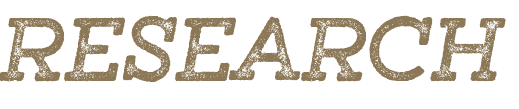
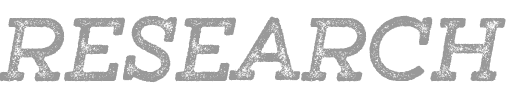
add shadows to increase beauty

Changed region(s): [[0.0, 0.1376, 0.9865, 0.7706]]

diff --git a/dist/bundle.js b/dist/bundle.js
@@ -443,7 +443,7 @@ eval("__webpack_require__.r(__webpack_exports__);\n/* harmony export */ __webpac
 /***/ ((__unused_webpack_module, __webpack_exports__, __webpack_require__) => {
 
 "use strict";
-eval("__webpack_require__.r(__webpack_exports__);\n/* harmony export */ __webpack_require__.d(__webpack_exports__, {\n/* harmony export */   \"default\": () => (__WEBPACK_DEFAULT_EXPORT__)\n/* harmony export */ });\n/* harmony import */ var react_jsx_runtime__WEBPACK_IMPORTED_MODULE_0__ = __webpack_require__(/*! react/jsx-runtime */ \"./node_modules/react/jsx-runtime.js\");\n/* harmony import */ var react__WEBPACK_IMPORTED_MODULE_1__ = __webpack_require__(/*! react */ \"./node_modules/react/index.js\");\n/* harmony import */ var react__WEBPACK_IMPORTED_MODULE_1___default = /*#__PURE__*/__webpack_require__.n(react__WEBPACK_IMPORTED_MODULE_1__);\n/* harmony import */ var _sectionHeader_css__WEBPACK_IMPORTED_MODULE_2__ = __webpack_require__(/*! ./sectionHeader.css */ \"./src/components/common/sectionHeader.css\");\nvar __extends = (undefined && undefined.__extends) || (function () {\n    var extendStatics = function (d, b) {\n        extendStatics = Object.setPrototypeOf ||\n            ({ __proto__: [] } instanceof Array && function (d, b) { d.__proto__ = b; }) ||\n            function (d, b) { for (var p in b) if (Object.prototype.hasOwnProperty.call(b, p)) d[p] = b[p]; };\n        return extendStatics(d, b);\n    };\n    return function (d, b) {\n        if (typeof b !== \"function\" && b !== null)\n            throw new TypeError(\"Class extends value \" + String(b) + \" is not a constructor or null\");\n        extendStatics(d, b);\n        function __() { this.constructor = d; }\n        d.prototype = b === null ? Object.create(b) : (__.prototype = b.prototype, new __());\n    };\n})();\n\n\n\n;\nvar SectionHeader = /** @class */ (function (_super) {\n    __extends(SectionHeader, _super);\n    function SectionHeader() {\n        return _super !== null && _super.apply(this, arguments) || this;\n    }\n    SectionHeader.prototype.render = function () {\n        return ((0,react_jsx_runtime__WEBPACK_IMPORTED_MODULE_0__.jsx)(\"div\", { className: \"container flex-row align-items-center mb-5\", children: (0,react_jsx_runtime__WEBPACK_IMPORTED_MODULE_0__.jsx)(\"center\", { children: (0,react_jsx_runtime__WEBPACK_IMPORTED_MODULE_0__.jsx)(\"img\", { src: this.props.imageUrl }) }) }));\n    };\n    return SectionHeader;\n}((react__WEBPACK_IMPORTED_MODULE_1___default().Component)));\n/* harmony default export */ const __WEBPACK_DEFAULT_EXPORT__ = (SectionHeader);\n\n\n//# sourceURL=webpack://chenfeilou-website/./src/components/common/sectionHeader.tsx?");
+eval("__webpack_require__.r(__webpack_exports__);\n/* harmony export */ __webpack_require__.d(__webpack_exports__, {\n/* harmony export */   \"default\": () => (__WEBPACK_DEFAULT_EXPORT__)\n/* harmony export */ });\n/* harmony import */ var react_jsx_runtime__WEBPACK_IMPORTED_MODULE_0__ = __webpack_require__(/*! react/jsx-runtime */ \"./node_modules/react/jsx-runtime.js\");\n/* harmony import */ var react__WEBPACK_IMPORTED_MODULE_1__ = __webpack_require__(/*! react */ \"./node_modules/react/index.js\");\n/* harmony import */ var react__WEBPACK_IMPORTED_MODULE_1___default = /*#__PURE__*/__webpack_require__.n(react__WEBPACK_IMPORTED_MODULE_1__);\n/* harmony import */ var _sectionHeader_css__WEBPACK_IMPORTED_MODULE_2__ = __webpack_require__(/*! ./sectionHeader.css */ \"./src/components/common/sectionHeader.css\");\nvar __extends = (undefined && undefined.__extends) || (function () {\n    var extendStatics = function (d, b) {\n        extendStatics = Object.setPrototypeOf ||\n            ({ __proto__: [] } instanceof Array && function (d, b) { d.__proto__ = b; }) ||\n            function (d, b) { for (var p in b) if (Object.prototype.hasOwnProperty.call(b, p)) d[p] = b[p]; };\n        return extendStatics(d, b);\n    };\n    return function (d, b) {\n        if (typeof b !== \"function\" && b !== null)\n            throw new TypeError(\"Class extends value \" + String(b) + \" is not a constructor or null\");\n        extendStatics(d, b);\n        function __() { this.constructor = d; }\n        d.prototype = b === null ? Object.create(b) : (__.prototype = b.prototype, new __());\n    };\n})();\n\n\n\n;\nvar SectionHeader = /** @class */ (function (_super) {\n    __extends(SectionHeader, _super);\n    function SectionHeader() {\n        return _super !== null && _super.apply(this, arguments) || this;\n    }\n    SectionHeader.prototype.render = function () {\n        return ((0,react_jsx_runtime__WEBPACK_IMPORTED_MODULE_0__.jsx)(\"div\", { className: \"container flex-row align-items-center mb-5 shadow\", children: (0,react_jsx_runtime__WEBPACK_IMPORTED_MODULE_0__.jsx)(\"center\", { children: (0,react_jsx_runtime__WEBPACK_IMPORTED_MODULE_0__.jsx)(\"img\", { src: this.props.imageUrl }) }) }));\n    };\n    return SectionHeader;\n}((react__WEBPACK_IMPORTED_MODULE_1___default().Component)));\n/* harmony default export */ const __WEBPACK_DEFAULT_EXPORT__ = (SectionHeader);\n\n\n//# sourceURL=webpack://chenfeilou-website/./src/components/common/sectionHeader.tsx?");
 
 /***/ }),
 
@@ -487,7 +487,7 @@ eval("__webpack_require__.r(__webpack_exports__);\n/* harmony export */ __webpac
 /***/ ((__unused_webpack_module, __webpack_exports__, __webpack_require__) => {
 
 "use strict";
-eval("__webpack_require__.r(__webpack_exports__);\n/* harmony export */ __webpack_require__.d(__webpack_exports__, {\n/* harmony export */   \"default\": () => (__WEBPACK_DEFAULT_EXPORT__)\n/* harmony export */ });\n/* harmony import */ var react_jsx_runtime__WEBPACK_IMPORTED_MODULE_0__ = __webpack_require__(/*! react/jsx-runtime */ \"./node_modules/react/jsx-runtime.js\");\n/* harmony import */ var react__WEBPACK_IMPORTED_MODULE_1__ = __webpack_require__(/*! react */ \"./node_modules/react/index.js\");\n/* harmony import */ var react__WEBPACK_IMPORTED_MODULE_1___default = /*#__PURE__*/__webpack_require__.n(react__WEBPACK_IMPORTED_MODULE_1__);\n/* harmony import */ var _common_sectionHeader__WEBPACK_IMPORTED_MODULE_2__ = __webpack_require__(/*! ../common/sectionHeader */ \"./src/components/common/sectionHeader.tsx\");\nvar __extends = (undefined && undefined.__extends) || (function () {\n    var extendStatics = function (d, b) {\n        extendStatics = Object.setPrototypeOf ||\n            ({ __proto__: [] } instanceof Array && function (d, b) { d.__proto__ = b; }) ||\n            function (d, b) { for (var p in b) if (Object.prototype.hasOwnProperty.call(b, p)) d[p] = b[p]; };\n        return extendStatics(d, b);\n    };\n    return function (d, b) {\n        if (typeof b !== \"function\" && b !== null)\n            throw new TypeError(\"Class extends value \" + String(b) + \" is not a constructor or null\");\n        extendStatics(d, b);\n        function __() { this.constructor = d; }\n        d.prototype = b === null ? Object.create(b) : (__.prototype = b.prototype, new __());\n    };\n})();\n\n\n\n;\nvar Experiences = /** @class */ (function (_super) {\n    __extends(Experiences, _super);\n    function Experiences() {\n        return _super !== null && _super.apply(this, arguments) || this;\n    }\n    Experiences.prototype.render = function () {\n        return ((0,react_jsx_runtime__WEBPACK_IMPORTED_MODULE_0__.jsxs)(\"div\", { id: \"Experiences\", style: { paddingTop: 60, paddingBottom: 60 }, children: [(0,react_jsx_runtime__WEBPACK_IMPORTED_MODULE_0__.jsx)(_common_sectionHeader__WEBPACK_IMPORTED_MODULE_2__[\"default\"], { imageUrl: \"images/experiences-header.png\" }), (0,react_jsx_runtime__WEBPACK_IMPORTED_MODULE_0__.jsx)(\"div\", { className: \"pt-4\", children: \"// TODO\" })] }));\n    };\n    return Experiences;\n}((react__WEBPACK_IMPORTED_MODULE_1___default().Component)));\n/* harmony default export */ const __WEBPACK_DEFAULT_EXPORT__ = (Experiences);\n\n\n//# sourceURL=webpack://chenfeilou-website/./src/components/experiences/experiences.tsx?");
+eval("__webpack_require__.r(__webpack_exports__);\n/* harmony export */ __webpack_require__.d(__webpack_exports__, {\n/* harmony export */   \"default\": () => (__WEBPACK_DEFAULT_EXPORT__)\n/* harmony export */ });\n/* harmony import */ var react_jsx_runtime__WEBPACK_IMPORTED_MODULE_0__ = __webpack_require__(/*! react/jsx-runtime */ \"./node_modules/react/jsx-runtime.js\");\n/* harmony import */ var react__WEBPACK_IMPORTED_MODULE_1__ = __webpack_require__(/*! react */ \"./node_modules/react/index.js\");\n/* harmony import */ var react__WEBPACK_IMPORTED_MODULE_1___default = /*#__PURE__*/__webpack_require__.n(react__WEBPACK_IMPORTED_MODULE_1__);\n/* harmony import */ var _common_sectionHeader__WEBPACK_IMPORTED_MODULE_2__ = __webpack_require__(/*! ../common/sectionHeader */ \"./src/components/common/sectionHeader.tsx\");\nvar __extends = (undefined && undefined.__extends) || (function () {\n    var extendStatics = function (d, b) {\n        extendStatics = Object.setPrototypeOf ||\n            ({ __proto__: [] } instanceof Array && function (d, b) { d.__proto__ = b; }) ||\n            function (d, b) { for (var p in b) if (Object.prototype.hasOwnProperty.call(b, p)) d[p] = b[p]; };\n        return extendStatics(d, b);\n    };\n    return function (d, b) {\n        if (typeof b !== \"function\" && b !== null)\n            throw new TypeError(\"Class extends value \" + String(b) + \" is not a constructor or null\");\n        extendStatics(d, b);\n        function __() { this.constructor = d; }\n        d.prototype = b === null ? Object.create(b) : (__.prototype = b.prototype, new __());\n    };\n})();\n\n\n\n;\nvar Experiences = /** @class */ (function (_super) {\n    __extends(Experiences, _super);\n    function Experiences() {\n        return _super !== null && _super.apply(this, arguments) || this;\n    }\n    Experiences.prototype.render = function () {\n        return ((0,react_jsx_runtime__WEBPACK_IMPORTED_MODULE_0__.jsxs)(\"div\", { id: \"Experiences\", style: { paddingTop: 60, paddingBottom: 60 }, children: [(0,react_jsx_runtime__WEBPACK_IMPORTED_MODULE_0__.jsx)(_common_sectionHeader__WEBPACK_IMPORTED_MODULE_2__[\"default\"], { imageUrl: \"images/experiences-header.png\" }), (0,react_jsx_runtime__WEBPACK_IMPORTED_MODULE_0__.jsx)(\"div\", { className: \"pt-4\" })] }));\n    };\n    return Experiences;\n}((react__WEBPACK_IMPORTED_MODULE_1___default().Component)));\n/* harmony default export */ const __WEBPACK_DEFAULT_EXPORT__ = (Experiences);\n\n\n//# sourceURL=webpack://chenfeilou-website/./src/components/experiences/experiences.tsx?");
 
 /***/ }),
 
@@ -520,7 +520,7 @@ eval("__webpack_require__.r(__webpack_exports__);\n/* harmony export */ __webpac
 /***/ ((__unused_webpack_module, __webpack_exports__, __webpack_require__) => {
 
 "use strict";
-eval("__webpack_require__.r(__webpack_exports__);\n/* harmony export */ __webpack_require__.d(__webpack_exports__, {\n/* harmony export */   \"default\": () => (__WEBPACK_DEFAULT_EXPORT__)\n/* harmony export */ });\n/* harmony import */ var react_jsx_runtime__WEBPACK_IMPORTED_MODULE_0__ = __webpack_require__(/*! react/jsx-runtime */ \"./node_modules/react/jsx-runtime.js\");\n/* harmony import */ var react__WEBPACK_IMPORTED_MODULE_1__ = __webpack_require__(/*! react */ \"./node_modules/react/index.js\");\n/* harmony import */ var react__WEBPACK_IMPORTED_MODULE_1___default = /*#__PURE__*/__webpack_require__.n(react__WEBPACK_IMPORTED_MODULE_1__);\n/* harmony import */ var react_bootstrap_icons__WEBPACK_IMPORTED_MODULE_2__ = __webpack_require__(/*! react-bootstrap-icons */ \"./node_modules/react-bootstrap-icons/dist/icons/emoji-laughing.js\");\nvar __extends = (undefined && undefined.__extends) || (function () {\n    var extendStatics = function (d, b) {\n        extendStatics = Object.setPrototypeOf ||\n            ({ __proto__: [] } instanceof Array && function (d, b) { d.__proto__ = b; }) ||\n            function (d, b) { for (var p in b) if (Object.prototype.hasOwnProperty.call(b, p)) d[p] = b[p]; };\n        return extendStatics(d, b);\n    };\n    return function (d, b) {\n        if (typeof b !== \"function\" && b !== null)\n            throw new TypeError(\"Class extends value \" + String(b) + \" is not a constructor or null\");\n        extendStatics(d, b);\n        function __() { this.constructor = d; }\n        d.prototype = b === null ? Object.create(b) : (__.prototype = b.prototype, new __());\n    };\n})();\n\n\n\n;\n;\nvar ProfileItem = /** @class */ (function (_super) {\n    __extends(ProfileItem, _super);\n    function ProfileItem() {\n        return _super !== null && _super.apply(this, arguments) || this;\n    }\n    ProfileItem.prototype.render = function () {\n        return ((0,react_jsx_runtime__WEBPACK_IMPORTED_MODULE_0__.jsxs)(\"div\", { className: 'my-3', children: [(0,react_jsx_runtime__WEBPACK_IMPORTED_MODULE_0__.jsx)(\"strong\", { children: this.props.keyName + \": \" }), (0,react_jsx_runtime__WEBPACK_IMPORTED_MODULE_0__.jsx)(\"span\", { children: this.props.value })] }));\n    };\n    return ProfileItem;\n}((react__WEBPACK_IMPORTED_MODULE_1___default().Component)));\nvar Profile = /** @class */ (function (_super) {\n    __extends(Profile, _super);\n    function Profile() {\n        return _super !== null && _super.apply(this, arguments) || this;\n    }\n    Profile.prototype.render = function () {\n        return ((0,react_jsx_runtime__WEBPACK_IMPORTED_MODULE_0__.jsx)(\"div\", { className: \"container-xxl col-10 mb-5\", style: { backgroundColor: \"#D2D3D5\" }, children: (0,react_jsx_runtime__WEBPACK_IMPORTED_MODULE_0__.jsxs)(\"div\", { className: \"d-flex flex-column flex-xl-row gap-5 align-items-center link-body-emphasis text-decoration-none p-5\", children: [(0,react_jsx_runtime__WEBPACK_IMPORTED_MODULE_0__.jsx)(\"div\", { className: 'col-10 col-md-6 col-xl-4', children: (0,react_jsx_runtime__WEBPACK_IMPORTED_MODULE_0__.jsx)(\"img\", { src: \"images/profile-picture.jpg\", width: '100%' }) }), (0,react_jsx_runtime__WEBPACK_IMPORTED_MODULE_0__.jsxs)(\"div\", { className: \"col-xl-8 px-5\", children: [(0,react_jsx_runtime__WEBPACK_IMPORTED_MODULE_0__.jsxs)(\"div\", { className: 'd-flex flex-row gap-3', children: [(0,react_jsx_runtime__WEBPACK_IMPORTED_MODULE_0__.jsx)(\"h2\", { className: \"mb-0\", children: \"Hi! Welcome to my website! \" }), (0,react_jsx_runtime__WEBPACK_IMPORTED_MODULE_0__.jsx)(react_bootstrap_icons__WEBPACK_IMPORTED_MODULE_2__[\"default\"], { size: 30 })] }), (0,react_jsx_runtime__WEBPACK_IMPORTED_MODULE_0__.jsx)(\"hr\", {}), (0,react_jsx_runtime__WEBPACK_IMPORTED_MODULE_0__.jsx)(ProfileItem, { keyName: 'Name', value: 'Chenfei Lou' }), (0,react_jsx_runtime__WEBPACK_IMPORTED_MODULE_0__.jsx)(ProfileItem, { keyName: 'D.O.B', value: '05/16/2000' }), (0,react_jsx_runtime__WEBPACK_IMPORTED_MODULE_0__.jsx)(ProfileItem, { keyName: 'Phone', value: '+1 (608) 698-6592' }), (0,react_jsx_runtime__WEBPACK_IMPORTED_MODULE_0__.jsx)(ProfileItem, { keyName: 'Address', value: '4742 Centre Ave, Pittsburgh, PA, 15213' }), (0,react_jsx_runtime__WEBPACK_IMPORTED_MODULE_0__.jsx)(ProfileItem, { keyName: 'E-mail', value: 'chenfeil@andrew.cmu.edu' }), (0,react_jsx_runtime__WEBPACK_IMPORTED_MODULE_0__.jsx)(ProfileItem, { keyName: 'Github', value: 'Alexanderia-Mike.github.com' }), (0,react_jsx_runtime__WEBPACK_IMPORTED_MODULE_0__.jsx)(ProfileItem, { keyName: 'LinkedIn', value: 'linkedin.com/in/mike-lou/' })] })] }) }));\n    };\n    return Profile;\n}((react__WEBPACK_IMPORTED_MODULE_1___default().Component)));\n/* harmony default export */ const __WEBPACK_DEFAULT_EXPORT__ = (Profile);\n\n\n//# sourceURL=webpack://chenfeilou-website/./src/components/profile/profile.tsx?");
+eval("__webpack_require__.r(__webpack_exports__);\n/* harmony export */ __webpack_require__.d(__webpack_exports__, {\n/* harmony export */   \"default\": () => (__WEBPACK_DEFAULT_EXPORT__)\n/* harmony export */ });\n/* harmony import */ var react_jsx_runtime__WEBPACK_IMPORTED_MODULE_0__ = __webpack_require__(/*! react/jsx-runtime */ \"./node_modules/react/jsx-runtime.js\");\n/* harmony import */ var react__WEBPACK_IMPORTED_MODULE_1__ = __webpack_require__(/*! react */ \"./node_modules/react/index.js\");\n/* harmony import */ var react__WEBPACK_IMPORTED_MODULE_1___default = /*#__PURE__*/__webpack_require__.n(react__WEBPACK_IMPORTED_MODULE_1__);\n/* harmony import */ var react_bootstrap_icons__WEBPACK_IMPORTED_MODULE_2__ = __webpack_require__(/*! react-bootstrap-icons */ \"./node_modules/react-bootstrap-icons/dist/icons/emoji-laughing.js\");\nvar __extends = (undefined && undefined.__extends) || (function () {\n    var extendStatics = function (d, b) {\n        extendStatics = Object.setPrototypeOf ||\n            ({ __proto__: [] } instanceof Array && function (d, b) { d.__proto__ = b; }) ||\n            function (d, b) { for (var p in b) if (Object.prototype.hasOwnProperty.call(b, p)) d[p] = b[p]; };\n        return extendStatics(d, b);\n    };\n    return function (d, b) {\n        if (typeof b !== \"function\" && b !== null)\n            throw new TypeError(\"Class extends value \" + String(b) + \" is not a constructor or null\");\n        extendStatics(d, b);\n        function __() { this.constructor = d; }\n        d.prototype = b === null ? Object.create(b) : (__.prototype = b.prototype, new __());\n    };\n})();\n\n\n\n;\n;\nvar ProfileItem = /** @class */ (function (_super) {\n    __extends(ProfileItem, _super);\n    function ProfileItem() {\n        return _super !== null && _super.apply(this, arguments) || this;\n    }\n    ProfileItem.prototype.render = function () {\n        return ((0,react_jsx_runtime__WEBPACK_IMPORTED_MODULE_0__.jsxs)(\"div\", { className: 'my-3', children: [(0,react_jsx_runtime__WEBPACK_IMPORTED_MODULE_0__.jsx)(\"strong\", { children: this.props.keyName + \": \" }), (0,react_jsx_runtime__WEBPACK_IMPORTED_MODULE_0__.jsx)(\"span\", { children: this.props.value })] }));\n    };\n    return ProfileItem;\n}((react__WEBPACK_IMPORTED_MODULE_1___default().Component)));\nvar Profile = /** @class */ (function (_super) {\n    __extends(Profile, _super);\n    function Profile() {\n        return _super !== null && _super.apply(this, arguments) || this;\n    }\n    Profile.prototype.render = function () {\n        return ((0,react_jsx_runtime__WEBPACK_IMPORTED_MODULE_0__.jsx)(\"div\", { className: \"container-xxl col-10 mb-5 shadow-lg\", style: { backgroundColor: \"#D2D3D500\" }, children: (0,react_jsx_runtime__WEBPACK_IMPORTED_MODULE_0__.jsxs)(\"div\", { className: \"d-flex flex-column flex-xl-row gap-5 align-items-center link-body-emphasis text-decoration-none p-5\", children: [(0,react_jsx_runtime__WEBPACK_IMPORTED_MODULE_0__.jsx)(\"div\", { className: 'col-10 col-md-6 col-xl-4', children: (0,react_jsx_runtime__WEBPACK_IMPORTED_MODULE_0__.jsx)(\"img\", { src: \"images/profile-picture.jpg\", width: '100%' }) }), (0,react_jsx_runtime__WEBPACK_IMPORTED_MODULE_0__.jsxs)(\"div\", { className: \"col-xl-8 px-5\", children: [(0,react_jsx_runtime__WEBPACK_IMPORTED_MODULE_0__.jsxs)(\"div\", { className: 'd-flex flex-row gap-3', children: [(0,react_jsx_runtime__WEBPACK_IMPORTED_MODULE_0__.jsx)(\"h2\", { className: \"mb-0\", children: \"Hi! Welcome to my website! \" }), (0,react_jsx_runtime__WEBPACK_IMPORTED_MODULE_0__.jsx)(react_bootstrap_icons__WEBPACK_IMPORTED_MODULE_2__[\"default\"], { size: 30 })] }), (0,react_jsx_runtime__WEBPACK_IMPORTED_MODULE_0__.jsx)(\"hr\", {}), (0,react_jsx_runtime__WEBPACK_IMPORTED_MODULE_0__.jsx)(ProfileItem, { keyName: 'Name', value: 'Chenfei Lou' }), (0,react_jsx_runtime__WEBPACK_IMPORTED_MODULE_0__.jsx)(ProfileItem, { keyName: 'D.O.B', value: '05/16/2000' }), (0,react_jsx_runtime__WEBPACK_IMPORTED_MODULE_0__.jsx)(ProfileItem, { keyName: 'Phone', value: '+1 (608) 698-6592' }), (0,react_jsx_runtime__WEBPACK_IMPORTED_MODULE_0__.jsx)(ProfileItem, { keyName: 'Address', value: '4742 Centre Ave, Pittsburgh, PA, 15213' }), (0,react_jsx_runtime__WEBPACK_IMPORTED_MODULE_0__.jsx)(ProfileItem, { keyName: 'E-mail', value: 'chenfeil@andrew.cmu.edu' }), (0,react_jsx_runtime__WEBPACK_IMPORTED_MODULE_0__.jsx)(ProfileItem, { keyName: 'Github', value: 'Alexanderia-Mike.github.com' }), (0,react_jsx_runtime__WEBPACK_IMPORTED_MODULE_0__.jsx)(ProfileItem, { keyName: 'LinkedIn', value: 'linkedin.com/in/mike-lou/' })] })] }) }));\n    };\n    return Profile;\n}((react__WEBPACK_IMPORTED_MODULE_1___default().Component)));\n/* harmony default export */ const __WEBPACK_DEFAULT_EXPORT__ = (Profile);\n\n\n//# sourceURL=webpack://chenfeilou-website/./src/components/profile/profile.tsx?");
 
 /***/ }),
 

diff --git a/src/components/profile/profile.tsx b/src/components/profile/profile.tsx
@@ -24,7 +24,7 @@ class ProfileItem extends React.Component<ItemProps> {
 class Profile extends React.Component<Props> {
     render(): React.ReactNode  {
         return (
-            <div className="container-xxl col-10 mb-5" style={{backgroundColor: "#D2D3D5"}}>
+            <div className="container-xxl col-10 mb-5 shadow-lg" style={{backgroundColor: "#D2D3D500"}}>
                 <div className="d-flex flex-column flex-xl-row gap-5 align-items-center link-body-emphasis text-decoration-none p-5">
                     <div className='col-10 col-md-6 col-xl-4'>
                         <img src={"images/profile-picture.jpg"} width={'100%'}/>

diff --git a/src/components/common/sectionHeader.tsx b/src/components/common/sectionHeader.tsx
@@ -9,7 +9,7 @@ interface Props {
 class SectionHeader extends React.Component<Props> {
     render(): React.ReactNode {
         return (
-            <div className="container flex-row align-items-center mb-5">
+            <div className="container flex-row align-items-center mb-5 shadow">
                 {/* <center className="display-1" style={{color: "#C9BFB7"}}>EDUCATION</center> */}
                 <center><img src={this.props.imageUrl}/></center>
             </div>

diff --git a/src/components/projects/projects.tsx b/src/components/projects/projects.tsx
@@ -14,7 +14,7 @@ class Projects extends React.Component<Props> {
                 <SectionHeader
                     imageUrl="images/projects-header.png"
                 ></SectionHeader>
-                {/* header color: 8C7757 */}
+                {/* header color: 999999 */}
                 <div className="pt-4 d-flex flex-column align-items-center">
                     <ProjectItem
                         time="May 2023"

diff --git a/src/components/research/research.tsx b/src/components/research/research.tsx
@@ -12,7 +12,7 @@ class Research extends React.Component<Props> {
                 <SectionHeader
                     imageUrl="images/research-header.png"
                 ></SectionHeader>
-                {/* 8C7757 */}
+                {/* 999999 */}
                 <div className="pt-4">
                     // TODO
                 </div>

diff --git a/src/components/experiences/experiences.tsx b/src/components/experiences/experiences.tsx
@@ -14,7 +14,7 @@ class Experiences extends React.Component<Props> {
                 ></SectionHeader>
                 {/* C9BEB7 */}
                 <div className="pt-4">
-                    // TODO
+                    {/* // TODO */}
                 </div>
             </div>
         );

diff --git a/src/components/experiences/experiencesItem.tsx b/src/components/experiences/experiencesItem.tsx
@@ -1,0 +1,11 @@
+import React from "react";
+
+interface Props {
+
+};
+
+class ExperiencesItem extends React.Component<Props> {
+    
+}
+
+export default ExperiencesItem;
